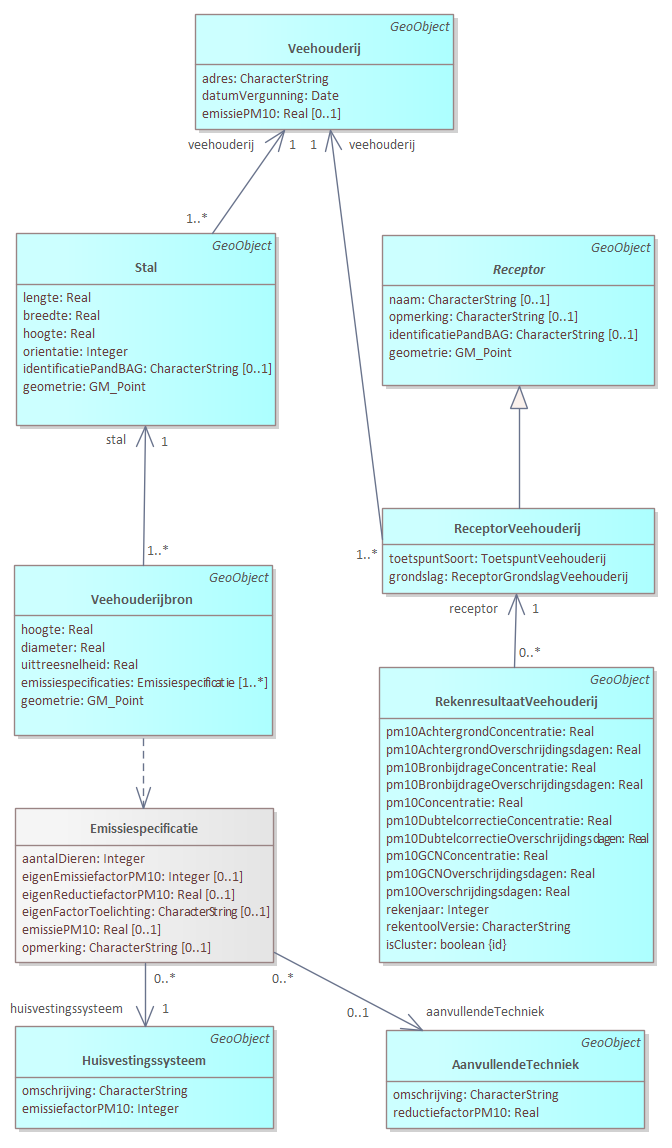
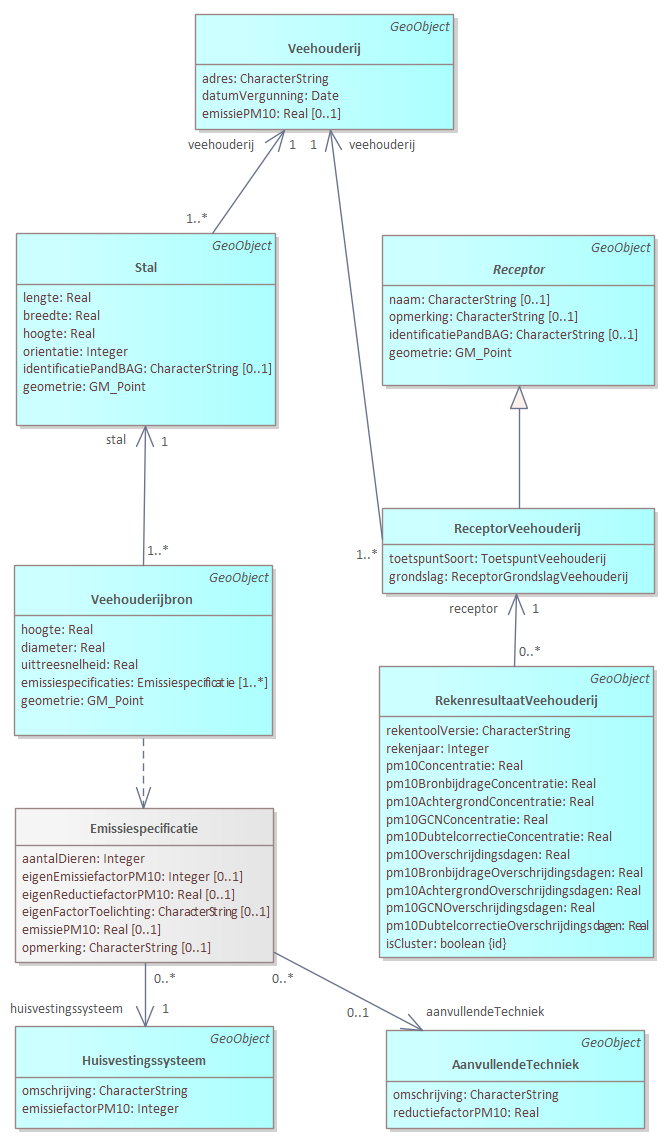
Order of attributes in veehouderij & name editor & date

Changed region(s): [[0.5625, 0.5793, 0.9688, 0.8537]]

diff --git a/docs/werkversie/index.html b/docs/werkversie/index.html
@@ -13,15 +13,19 @@
 				edDraftURI: "https://rivm-syso.github.io/CIMLK/werkversie/index.html",
 				thisVersion: "https://rivm-syso.github.io/CIMLK/werkversie/index.html",
 				latestVersion: "https://rivm-syso.github.io/CIMLK/",
-				publishDate: "2024-10-23",
+				publishDate: "2024-11-06",
 				specStatus: "unofficial",
 				shortName: "IMLK",
 				inLanguage: "nl",
 				editors: [{
-					name: "Danny Greefhorst",
+					name: "Jennifer Oldfield",
 					company: "RIVM",
 				}],
 				authors: [
+									{
+					name: "Danny Greefhorst",
+					company: "RIVM",
+					},
 					{
 					name: "Michiel Geijer",
 					company: "RIVM",
@@ -778,24 +782,33 @@
 <tr border="0"><td width=200px valign=top><b>Stereotype</b></td><td>Objecttype</td></tr>
 <tr border="0"><td width=200px valign=top><b>Definitie</b></td><td>De berekende concentraties van een luchtkwaliteitsberekening voor veehouderijen inclusief de concentratieopbouw en informatie over de gebruikte versie van de rekentool en het rekenjaar.</td></tr>
 </table>
-<section id="RekenresultaatVeehouderij.pm10AchtergrondConcentratie">
-<h3>pm10AchtergrondConcentratie</h3>
+<section id="RekenresultaatVeehouderij.rekentoolVersie">
+<h3>rekentoolVersie</h3>
 <table width=100%>
 <tr border="0"><td width=200px><b>Stereotype</b></td><td>Attribuutsoort</td></tr>
-<tr border="0"><td width=200px valign=top><b>Definitie</b></td><td>PM10 achtergrondconcentratie waarmee gerekend is (inclusief correctie voor dubbeltelling).</td></tr>
-<tr border="0"><td width=200px><b>Type</b></td><td>Real</td></tr>
-<tr border="0"><td width=200px><b>Eenheid</b></td><td>microgram / kubieke meter</td></tr>
+<tr border="0"><td width=200px valign=top><b>Definitie</b></td><td>De versie van de rekentool waarmee de berekening is uitgevoerd.</td></tr>
+<tr border="0"><td width=200px><b>Type</b></td><td>CharacterString</td></tr>
 <tr border="0"><td width=200px><b>Identificerend</b></td><td>nee</td></tr>
 <tr border="0"><td width=200px><b>Kardinaliteit<b></td><td>1</td></tr>
 </table>
 </section>
-<section id="RekenresultaatVeehouderij.pm10AchtergrondOverschrijdingsdagen">
-<h3>pm10AchtergrondOverschrijdingsdagen</h3>
+<section id="RekenresultaatVeehouderij.rekenjaar">
+<h3>rekenjaar</h3>
 <table width=100%>
 <tr border="0"><td width=200px><b>Stereotype</b></td><td>Attribuutsoort</td></tr>
-<tr border="0"><td width=200px valign=top><b>Definitie</b></td><td>PM10 overschrijdingsdagen op basis van de achtergrond waarmee gerekend is (inclusief correctie voor dubbeltelling).</td></tr>
+<tr border="0"><td width=200px valign=top><b>Definitie</b></td><td>Het jaartal waarvoor de berekening is uitgevoerd en waarop de resultaten betrekking hebben.</td></tr>
+<tr border="0"><td width=200px><b>Type</b></td><td>Integer</td></tr>
+<tr border="0"><td width=200px><b>Identificerend</b></td><td>nee</td></tr>
+<tr border="0"><td width=200px><b>Kardinaliteit<b></td><td>1</td></tr>
+</table>
+</section>
+<section id="RekenresultaatVeehouderij.pm10Concentratie">
+<h3>pm10Concentratie</h3>
+<table width=100%>
+<tr border="0"><td width=200px><b>Stereotype</b></td><td>Attribuutsoort</td></tr>
+<tr border="0"><td width=200px valign=top><b>Definitie</b></td><td>De berekende totale PM10 concentratie op de receptor.</td></tr>
 <tr border="0"><td width=200px><b>Type</b></td><td>Real</td></tr>
-<tr border="0"><td width=200px><b>Eenheid</b></td><td>dag / jaar</td></tr>
+<tr border="0"><td width=200px><b>Eenheid</b></td><td>microgram / kubieke meter</td></tr>
 <tr border="0"><td width=200px><b>Identificerend</b></td><td>nee</td></tr>
 <tr border="0"><td width=200px><b>Kardinaliteit<b></td><td>1</td></tr>
 </table>
@@ -811,22 +824,22 @@
 <tr border="0"><td width=200px><b>Kardinaliteit<b></td><td>1</td></tr>
 </table>
 </section>
-<section id="RekenresultaatVeehouderij.pm10BronbijdrageOverschrijdingsdagen">
-<h3>pm10BronbijdrageOverschrijdingsdagen</h3>
+<section id="RekenresultaatVeehouderij.pm10AchtergrondConcentratie">
+<h3>pm10AchtergrondConcentratie</h3>
 <table width=100%>
 <tr border="0"><td width=200px><b>Stereotype</b></td><td>Attribuutsoort</td></tr>
-<tr border="0"><td width=200px valign=top><b>Definitie</b></td><td>De berekende bronbijdrage voor PM10 overschrijdingsdagen op de receptor.</td></tr>
+<tr border="0"><td width=200px valign=top><b>Definitie</b></td><td>PM10 achtergrondconcentratie waarmee gerekend is (inclusief correctie voor dubbeltelling).</td></tr>
 <tr border="0"><td width=200px><b>Type</b></td><td>Real</td></tr>
-<tr border="0"><td width=200px><b>Eenheid</b></td><td>dag / jaar</td></tr>
+<tr border="0"><td width=200px><b>Eenheid</b></td><td>microgram / kubieke meter</td></tr>
 <tr border="0"><td width=200px><b>Identificerend</b></td><td>nee</td></tr>
 <tr border="0"><td width=200px><b>Kardinaliteit<b></td><td>1</td></tr>
 </table>
 </section>
-<section id="RekenresultaatVeehouderij.pm10Concentratie">
-<h3>pm10Concentratie</h3>
+<section id="RekenresultaatVeehouderij.pm10GCNConcentratie">
+<h3>pm10GCNConcentratie</h3>
 <table width=100%>
 <tr border="0"><td width=200px><b>Stereotype</b></td><td>Attribuutsoort</td></tr>
-<tr border="0"><td width=200px valign=top><b>Definitie</b></td><td>De berekende totale PM10 concentratie op de receptor.</td></tr>
+<tr border="0"><td width=200px valign=top><b>Definitie</b></td><td>De grootschalige achtergrondconcentratie PM10 in de GCN kaart.</td></tr>
 <tr border="0"><td width=200px><b>Type</b></td><td>Real</td></tr>
 <tr border="0"><td width=200px><b>Eenheid</b></td><td>microgram / kubieke meter</td></tr>
 <tr border="0"><td width=200px><b>Identificerend</b></td><td>nee</td></tr>
@@ -844,24 +857,35 @@
 <tr border="0"><td width=200px><b>Kardinaliteit<b></td><td>1</td></tr>
 </table>
 </section>
-<section id="RekenresultaatVeehouderij.pm10DubtelcorrectieOverschrijdingsdagen">
-<h3>pm10DubtelcorrectieOverschrijdingsdagen</h3>
+<section id="RekenresultaatVeehouderij.pm10Overschrijdingsdagen">
+<h3>pm10Overschrijdingsdagen</h3>
 <table width=100%>
 <tr border="0"><td width=200px><b>Stereotype</b></td><td>Attribuutsoort</td></tr>
-<tr border="0"><td width=200px valign=top><b>Definitie</b></td><td>Toegepaste dubbeltellingscorrectie voor de bijdrage van veehouderijen op het aantal PM10 overschrijdingsdagen.</td></tr>
+<tr border="0"><td width=200px valign=top><b>Definitie</b></td><td>Het berekende aantal overschrijdingsdagen op de receptor.</td></tr>
 <tr border="0"><td width=200px><b>Type</b></td><td>Real</td></tr>
 <tr border="0"><td width=200px><b>Eenheid</b></td><td>dag / jaar</td></tr>
 <tr border="0"><td width=200px><b>Identificerend</b></td><td>nee</td></tr>
 <tr border="0"><td width=200px><b>Kardinaliteit<b></td><td>1</td></tr>
 </table>
 </section>
-<section id="RekenresultaatVeehouderij.pm10GCNConcentratie">
-<h3>pm10GCNConcentratie</h3>
+<section id="RekenresultaatVeehouderij.pm10BronbijdrageOverschrijdingsdagen">
+<h3>pm10BronbijdrageOverschrijdingsdagen</h3>
 <table width=100%>
 <tr border="0"><td width=200px><b>Stereotype</b></td><td>Attribuutsoort</td></tr>
-<tr border="0"><td width=200px valign=top><b>Definitie</b></td><td>De grootschalige achtergrondconcentratie PM10 in de GCN kaart.</td></tr>
+<tr border="0"><td width=200px valign=top><b>Definitie</b></td><td>De berekende bronbijdrage voor PM10 overschrijdingsdagen op de receptor.</td></tr>
 <tr border="0"><td width=200px><b>Type</b></td><td>Real</td></tr>
-<tr border="0"><td width=200px><b>Eenheid</b></td><td>microgram / kubieke meter</td></tr>
+<tr border="0"><td width=200px><b>Eenheid</b></td><td>dag / jaar</td></tr>
+<tr border="0"><td width=200px><b>Identificerend</b></td><td>nee</td></tr>
+<tr border="0"><td width=200px><b>Kardinaliteit<b></td><td>1</td></tr>
+</table>
+</section>
+<section id="RekenresultaatVeehouderij.pm10AchtergrondOverschrijdingsdagen">
+<h3>pm10AchtergrondOverschrijdingsdagen</h3>
+<table width=100%>
+<tr border="0"><td width=200px><b>Stereotype</b></td><td>Attribuutsoort</td></tr>
+<tr border="0"><td width=200px valign=top><b>Definitie</b></td><td>PM10 overschrijdingsdagen op basis van de achtergrond waarmee gerekend is (inclusief correctie voor dubbeltelling).</td></tr>
+<tr border="0"><td width=200px><b>Type</b></td><td>Real</td></tr>
+<tr border="0"><td width=200px><b>Eenheid</b></td><td>dag / jaar</td></tr>
 <tr border="0"><td width=200px><b>Identificerend</b></td><td>nee</td></tr>
 <tr border="0"><td width=200px><b>Kardinaliteit<b></td><td>1</td></tr>
 </table>
@@ -877,33 +901,13 @@
 <tr border="0"><td width=200px><b>Kardinaliteit<b></td><td>1</td></tr>
 </table>
 </section>
-<section id="RekenresultaatVeehouderij.pm10Overschrijdingsdagen">
-<h3>pm10Overschrijdingsdagen</h3>
+<section id="RekenresultaatVeehouderij.pm10DubtelcorrectieOverschrijdingsdagen">
+<h3>pm10DubtelcorrectieOverschrijdingsdagen</h3>
 <table width=100%>
 <tr border="0"><td width=200px><b>Stereotype</b></td><td>Attribuutsoort</td></tr>
-<tr border="0"><td width=200px valign=top><b>Definitie</b></td><td>Het berekende aantal overschrijdingsdagen op de receptor.</td></tr>
+<tr border="0"><td width=200px valign=top><b>Definitie</b></td><td>Toegepaste dubbeltellingscorrectie voor de bijdrage van veehouderijen op het aantal PM10 overschrijdingsdagen.</td></tr>
 <tr border="0"><td width=200px><b>Type</b></td><td>Real</td></tr>
 <tr border="0"><td width=200px><b>Eenheid</b></td><td>dag / jaar</td></tr>
-<tr border="0"><td width=200px><b>Identificerend</b></td><td>nee</td></tr>
-<tr border="0"><td width=200px><b>Kardinaliteit<b></td><td>1</td></tr>
-</table>
-</section>
-<section id="RekenresultaatVeehouderij.rekenjaar">
-<h3>rekenjaar</h3>
-<table width=100%>
-<tr border="0"><td width=200px><b>Stereotype</b></td><td>Attribuutsoort</td></tr>
-<tr border="0"><td width=200px valign=top><b>Definitie</b></td><td>Het jaartal waarvoor de berekening is uitgevoerd en waarop de resultaten betrekking hebben.</td></tr>
-<tr border="0"><td width=200px><b>Type</b></td><td>Integer</td></tr>
-<tr border="0"><td width=200px><b>Identificerend</b></td><td>nee</td></tr>
-<tr border="0"><td width=200px><b>Kardinaliteit<b></td><td>1</td></tr>
-</table>
-</section>
-<section id="RekenresultaatVeehouderij.rekentoolVersie">
-<h3>rekentoolVersie</h3>
-<table width=100%>
-<tr border="0"><td width=200px><b>Stereotype</b></td><td>Attribuutsoort</td></tr>
-<tr border="0"><td width=200px valign=top><b>Definitie</b></td><td>De versie van de rekentool waarmee de berekening is uitgevoerd.</td></tr>
-<tr border="0"><td width=200px><b>Type</b></td><td>CharacterString</td></tr>
 <tr border="0"><td width=200px><b>Identificerend</b></td><td>nee</td></tr>
 <tr border="0"><td width=200px><b>Kardinaliteit<b></td><td>1</td></tr>
 </table>

diff --git a/informatiemodel/respec-basis.html b/informatiemodel/respec-basis.html
@@ -13,15 +13,19 @@
 				edDraftURI: "https://rivm-syso.github.io/CIMLK/werkversie/index.html",
 				thisVersion: "https://rivm-syso.github.io/CIMLK/werkversie/index.html",
 				latestVersion: "https://rivm-syso.github.io/CIMLK/",
-				publishDate: "2024-10-23",
+				publishDate: "2024-11-06",
 				specStatus: "unofficial",
 				shortName: "IMLK",
 				inLanguage: "nl",
 				editors: [{
-					name: "Danny Greefhorst",
+					name: "Jennifer Oldfield",
 					company: "RIVM",
 				}],
 				authors: [
+									{
+					name: "Danny Greefhorst",
+					company: "RIVM",
+					},
 					{
 					name: "Michiel Geijer",
 					company: "RIVM",
